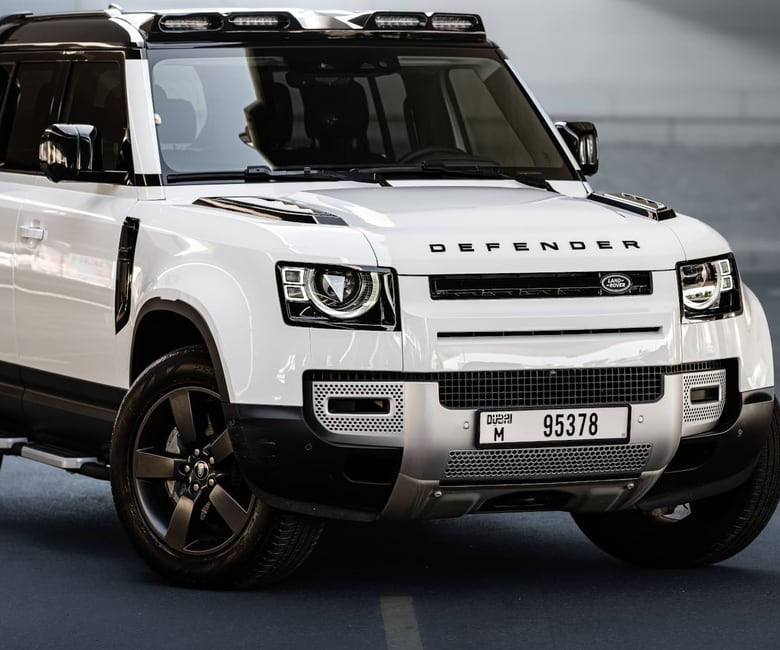
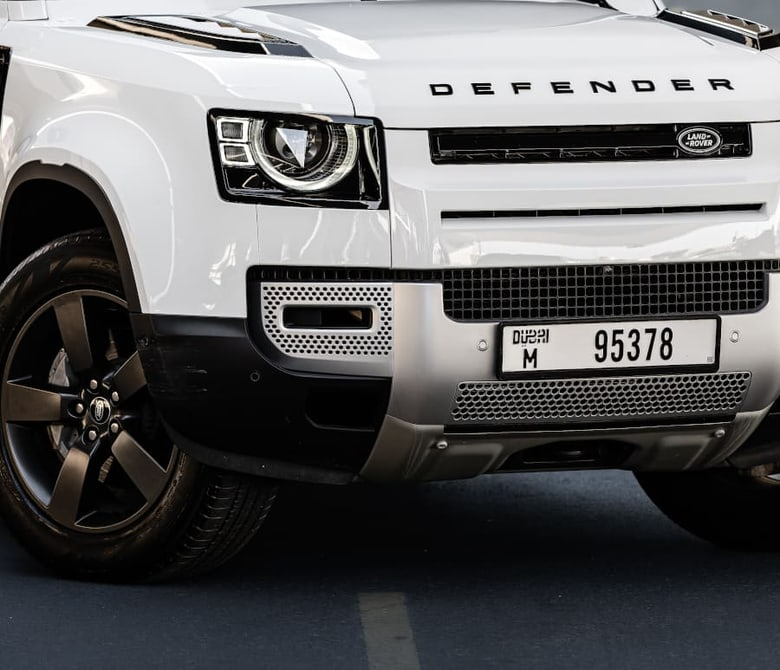
Photographic plate replicas, zoomed scan feed, AI renders section
Claude-Session: https://claude.ai/code/session_01XUjYYSdYvLLVrdSuyXtLUf

diff --git a/docs/PENDING.md b/docs/PENDING.md
@@ -50,6 +50,9 @@ Items the site needs before launch, in the order they block work. Each has a pla
 
 - Plates (27 Oct): `Plate.astro` reproduces the reference set in HTML (Dubai blue/magenta lettering; Abu Dhabi red code block with bilingual stack; Sharjah and Fujairah grey faces with Arabic over Latin). The same component is used on the guest page, staff ticket and request screens, the scan results and the recognition cards.
 
+- Plates are now photographic replicas: Dubai from the Defender photo (M 95378), Sharjah / Abu Dhabi / Fujairah cropped from the reference sheet (the Sharjah reference carries a faint stock-photo watermark; a clean photo would replace it). Scan feed uses the Defender photo, zoomed on the grille.
+- New §: AI renders (`Renders.astro`), between Technology and Who it's for. Marked `live` because the staff app shows the render; confirm status and wording.
+
 ## Copy added outside the brief
 
 - Key board intro (§4): "Every ticket, every promise, on one board. When a request runs late, the shift manager knows before the guest does."
